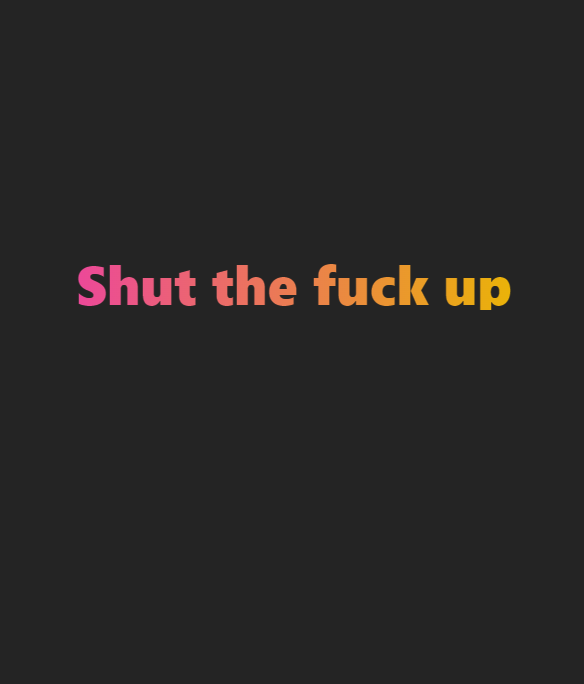
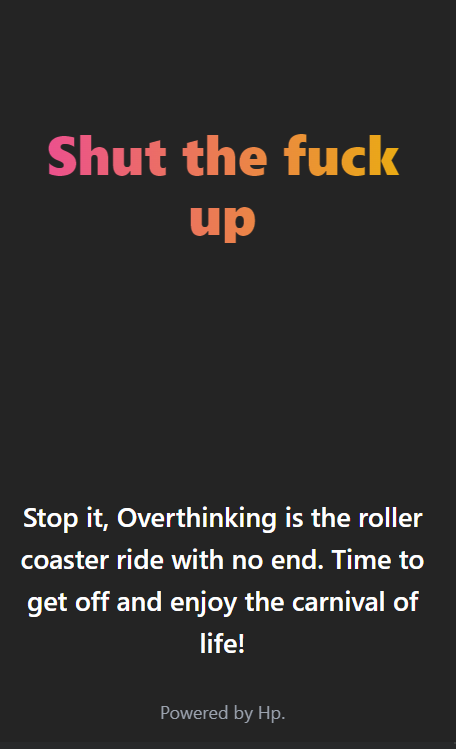
added screenshots

diff --git a/src/App.js b/src/App.js
@@ -30,7 +30,7 @@ function App() {
             Shut the fuck up
           </p>
           <Lottie options={confettiOptions} height={200} width={200} />
-          <p className="text-lg sm:text-2xl w-[50%] text-center my-2 font-semibold    text-white">
+          <p className="text-lg sm:text-2xl text-center my-2 font-semibold    text-white">
             Stop it, Overthinking is the roller coaster ride with no end. Time
             to get off and enjoy the carnival of life!
           </p>
